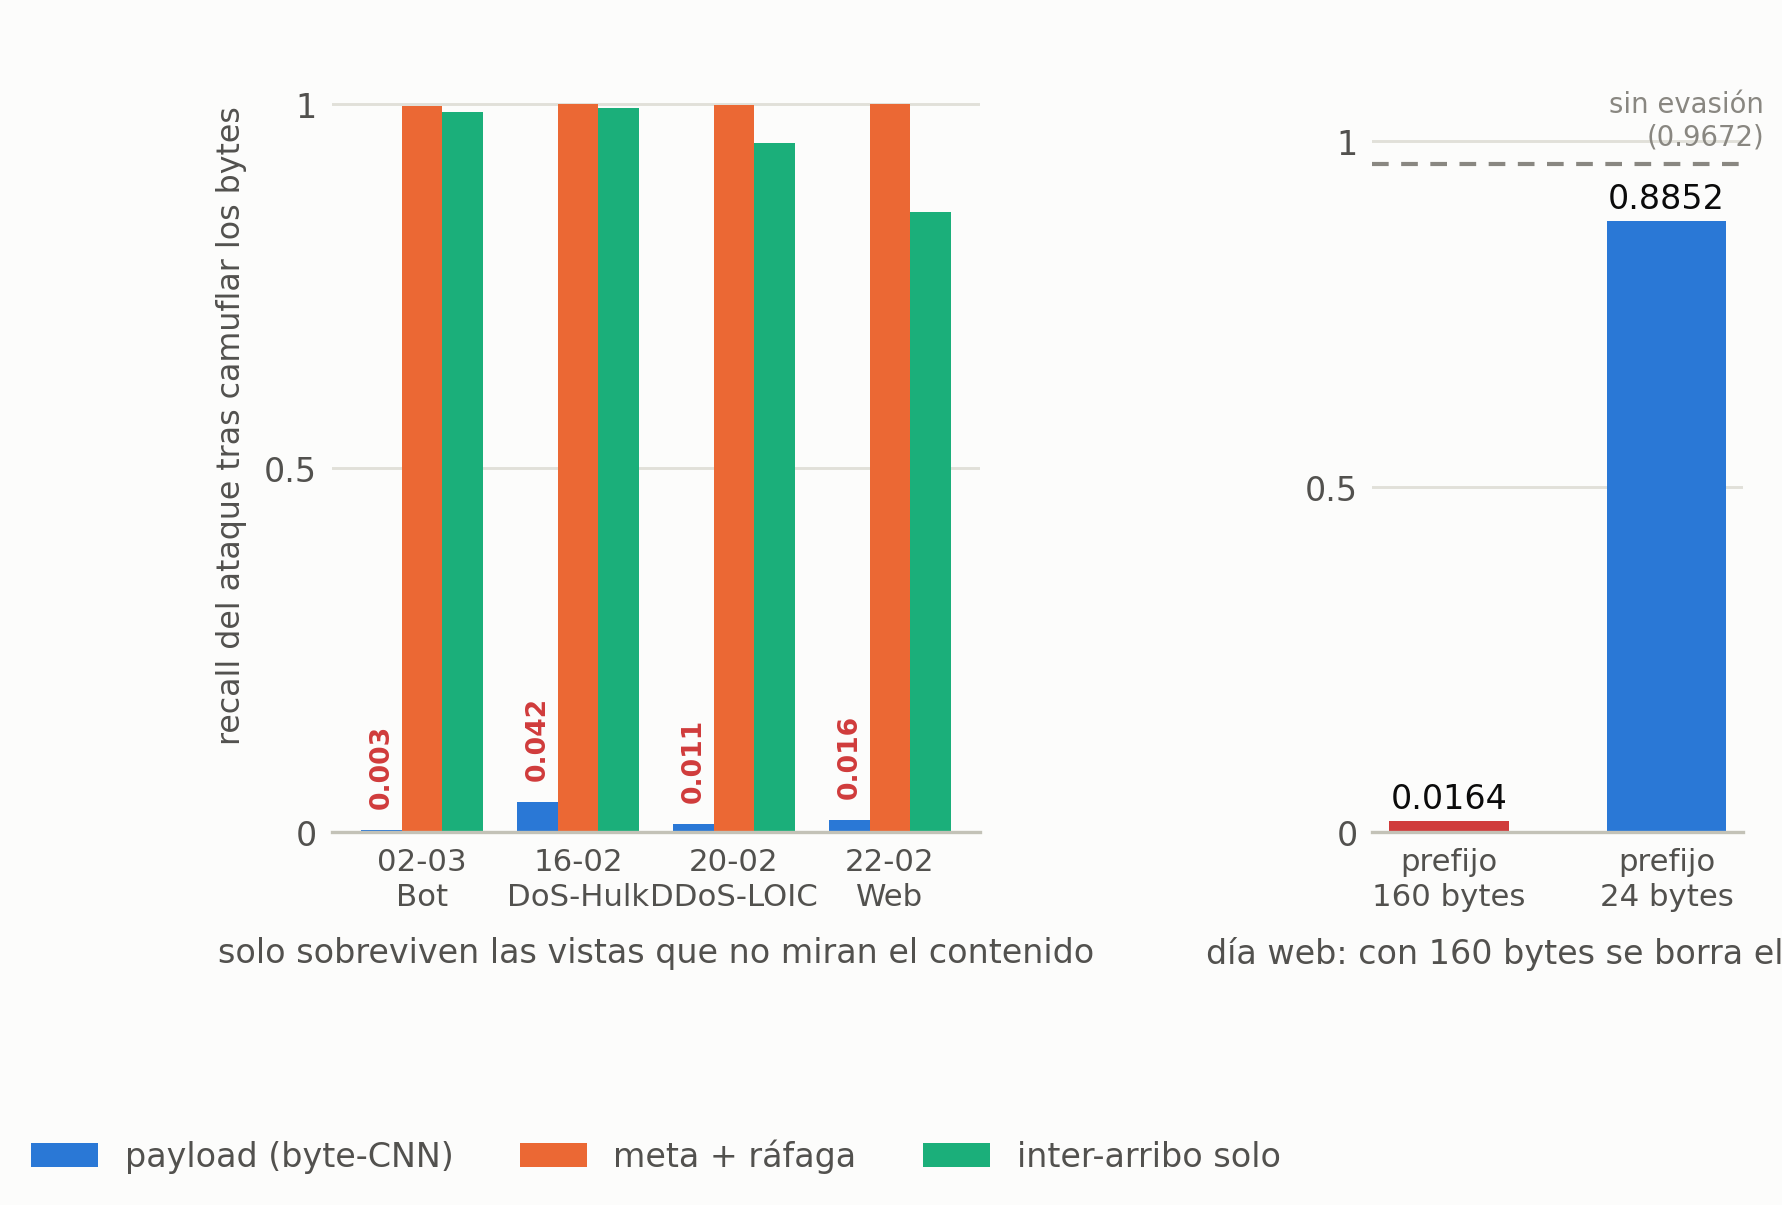
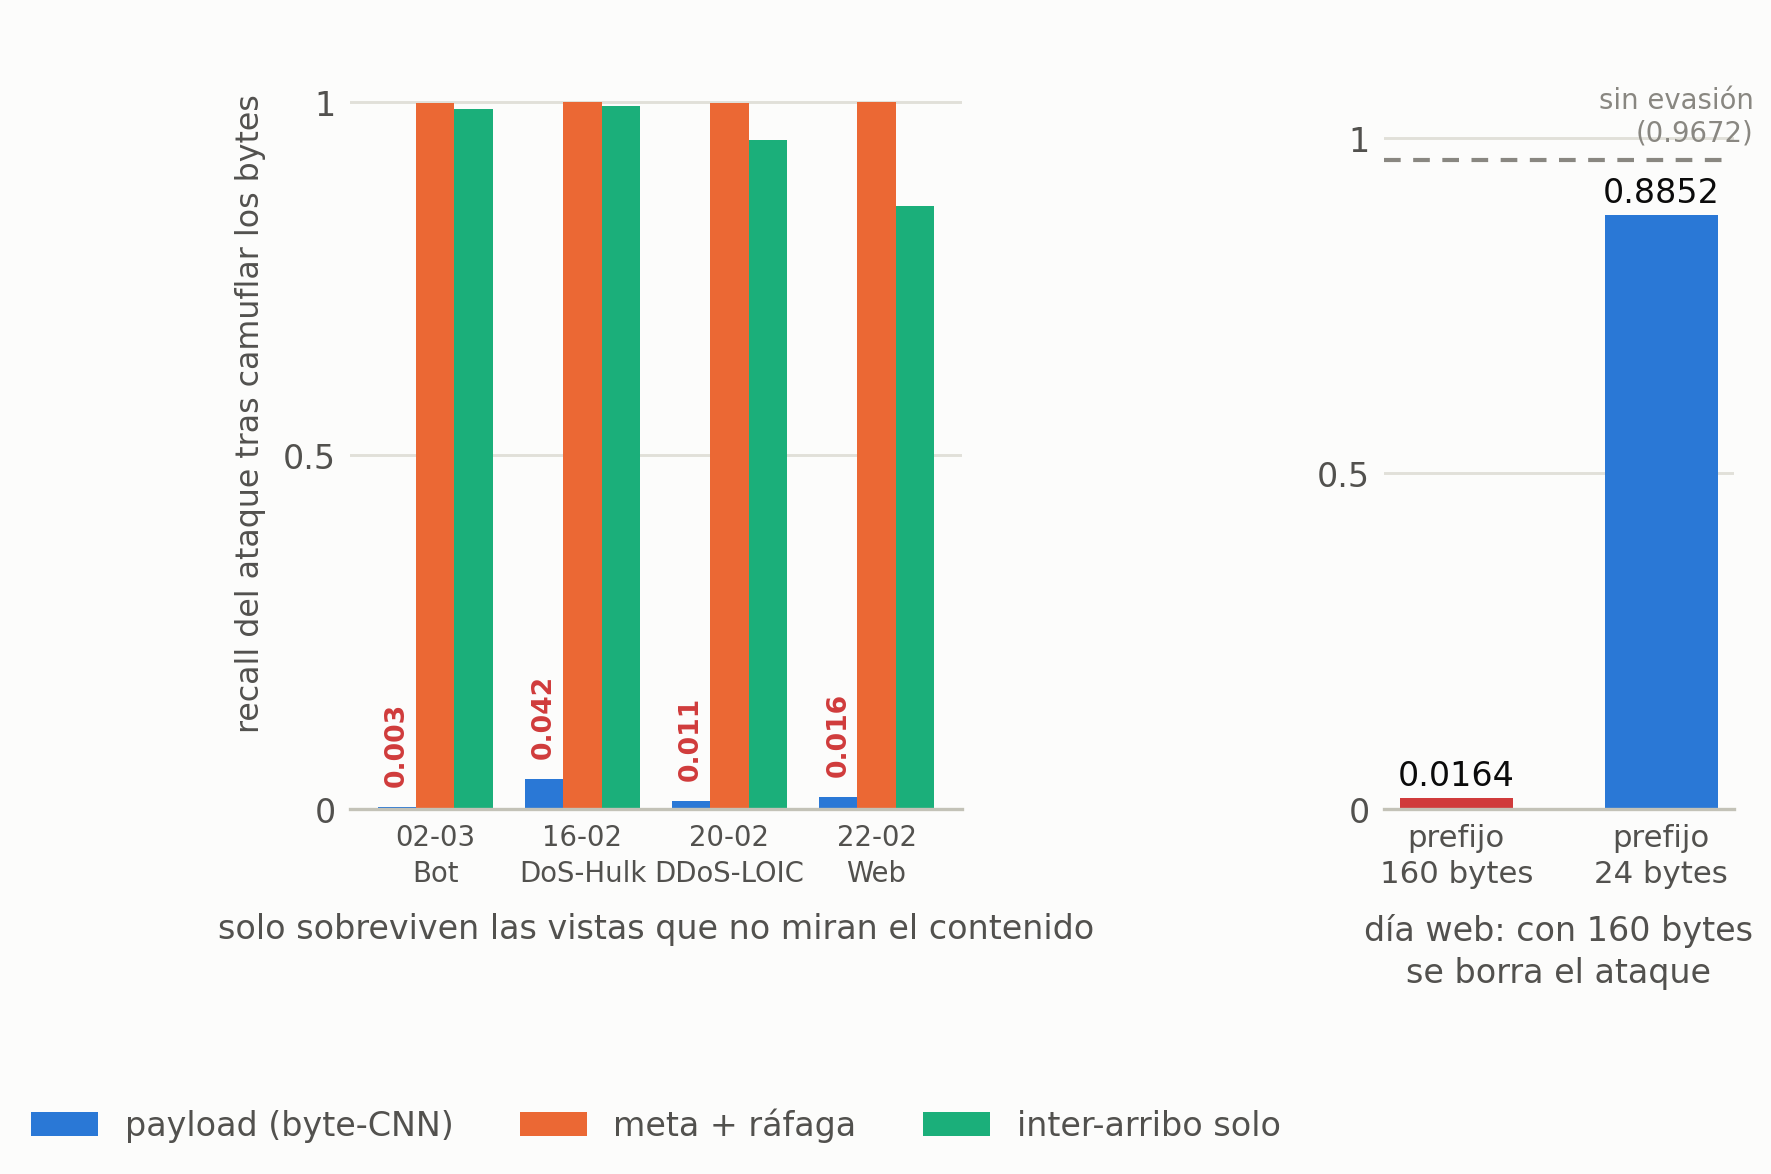
Quinta errata: el rotulo cortado de la figura 5.2
A la figura 5.2 se le sale del recorte la ultima palabra del rotulo del
panel derecho: se imprime "dia web: con 160 bytes se borra el" y falta
"ataque". Es el aviso metodologico del capitulo, asi que la frase que
queda a medias es justo la que dice que sobrescribir 160 bytes en el dia
web no evadia la deteccion sino que destruia el ataque.

Corregida en el codigo -el rotulo va en dos lineas- y documentada en
ERRATAS.md, que pasa de cuatro erratas a cinco. main.pdf sigue siendo la
version entregada al ADDI y no se recompila, de modo que las figuras 3.2
y 5.2 regeneradas ya no coinciden con las impresas. El README lo dice.

diff --git a/scripts/figuras/fig_generalizacion.py b/scripts/figuras/fig_generalizacion.py
@@ -430,8 +430,10 @@ def f39_evasion_interarribo() -> None:
                              fontweight="bold", rotation=90)
     ax1.set_ylim(0, 1.12)
     ax1.set_yticks([0, 0.5, 1.0], ["0", "0.5", "1"], fontsize=8)
-    ax1.set_xticks(x, [d.replace(" ", "\n", 1) for d in dias], fontsize=7.4,
-                   linespacing=1.3)
+    # 6.6 y no 7.4: a 7.4 "DoS-Hulk" y "DDoS-LOIC" se tocan y se leen como una
+    # sola palabra. Son cuatro etiquetas en un panel estrecho.
+    ax1.set_xticks(x, [d.replace(" ", "\n", 1) for d in dias], fontsize=6.6,
+                   linespacing=1.35)
     ax1.set_ylabel("recall del ataque tras camuflar los bytes", fontsize=7.6)
     limpiar_ejes(ax1, rejilla="y")
     # Rotulo de panel ABAJO: arriba choca con el subtitulo de figura (leccion de F35).
@@ -454,8 +456,11 @@ def f39_evasion_interarribo() -> None:
     ax2.set_yticks([0, 0.5, 1.0], ["0", "0.5", "1"], fontsize=8)
     ax2.set_xticks(range(2), etiquetas, fontsize=7.4, linespacing=1.3)
     limpiar_ejes(ax2, rejilla="y")
-    ax2.set_xlabel("día web: con 160 bytes se borra el ataque",
-                   fontsize=8, color=TINTA_2, labelpad=6)
+    # ERRATA (14-sep): en una sola linea este rotulo mide 38 px mas que el panel
+    # -que es el estrecho de los dos- y "ataque" se quedaba fuera del recorte.
+    # En la memoria entregada se lee "...se borra el". Partido en dos, cabe.
+    ax2.set_xlabel("día web: con 160 bytes\nse borra el ataque",
+                   fontsize=8, color=TINTA_2, labelpad=6, linespacing=1.35)
 
     titulo_figura(fig, "La evasión separa la huella de la herramienta del contenido real",
                   "El payload se desploma donde los primeros bytes son la firma de la "

diff --git a/ERRATAS.md b/ERRATAS.md
@@ -3,20 +3,20 @@
 `DIF_Dissertation_2026/main.pdf` es **la versión entregada al ADDI el 8 de
 septiembre de 2026**, sin modificar. Después de la entrega se revisó el texto
 contra el código, afirmación por afirmación —arquitecturas, tamaños de
-experimento, métodos, recuentos y parámetros—, y aparecieron cuatro erratas.
+experimento, métodos, recuentos y parámetros—, y aparecieron cinco erratas.
 Se documentan aquí en lugar de corregirlas en el PDF, porque el PDF entregado es
 el que tiene el tribunal y cambiarlo a posteriori haría que dejasen de coincidir.
 
-**Ninguna de las cuatro afecta a un resultado.** El auditor de coherencia
+**Ninguna de las cinco afecta a un resultado.** El auditor de coherencia
 (`scripts/figuras/verificar_memoria.py`) contrasta las 432 cifras del texto y
-las tablas contra `scripts/figuras/resultados.py` y sale en verde. Lo que falla
-en tres de los cuatro casos es la *descripción* de algo que el código hace de
-otra manera; el cuarto es una figura que se quedó con cifras viejas.
+las tablas contra `scripts/figuras/resultados.py` y sale en verde. Dos están en
+figuras —una con cifras de escala desfasadas, otra con un rótulo cortado— y las
+otras tres fallan al *describir* algo que el código hace de otra manera.
 
-**El código de este repositorio sí está corregido** en el único caso que lo
-requería (la errata 1). Por eso, si se regenera la figura 3.2 con
-`scripts/figuras/fig_datos.py`, sale distinta de la que imprime `main.pdf`. Esa
-divergencia es deliberada y es la que explica este fichero.
+**El código de este repositorio sí está corregido** en los dos casos que lo
+requerían (las erratas 1 y 2). Por eso, si se regeneran las figuras 3.2 y 5.2,
+salen distintas de las que imprime `main.pdf`. Esa divergencia es deliberada y
+es la que explica este fichero.
 
 ---
 
@@ -34,7 +34,7 @@ El cuarto régimen entró el 21 de agosto, al incorporar el día de la botnet
 (`02-03-2018`, Ares). Las cuatro fichas de esa figura estaban escritas a mano y
 no se actualizaron con él.
 
-**Es la más visible de las cuatro** porque se contradice con la propia memoria a
+**Es la más visible de las cinco** porque se contradice con la propia memoria a
 tres páginas de distancia: el resumen, en la página I, dice «17.203.272
 conexiones TCP repartidas en **seis** días del conjunto CSE-CIC-IDS2018».
 
@@ -52,7 +52,32 @@ es una ficha de escala, dice cuánto material se procesó, no qué salió.
 
 ---
 
-## 2. El cuarto escalar de la vista de metadatos no es la duración
+## 2. A la figura 5.2 se le sale del recorte la última palabra de un rótulo
+
+**Dónde:** figura 5.2, «La evasión separa la huella de la herramienta del
+contenido real», capítulo 5. Panel derecho.
+
+El rótulo bajo ese panel se imprime como «día web: con 160 bytes se borra el» y
+ahí se acaba. El texto completo es «**día web: con 160 bytes se borra el
+ataque**»: el rótulo mide 38 px más que el panel —que es el estrecho de los
+dos— y la última palabra queda fuera del recorte.
+
+Ese panel no es decorativo: es el aviso metodológico del capítulo. Dice que, en
+el día web, sobrescribir los primeros 160 bytes no evadía la detección sino que
+*destruía el ataque*, porque la inyección SQL vive en esos bytes; repetida la
+prueba con un prefijo de 24 bytes, que no la toca, el recall aguanta en 0.8852.
+La regla que sale de ahí —un test de evasión solo vale si el ataque sigue siendo
+el ataque después de la modificación— está enunciada entera en el texto de la
+sección, así que no se pierde información: el defecto es de composición.
+
+**Qué se ha corregido.** El rótulo va ahora en dos líneas y entra completo. De
+paso, las etiquetas del eje del panel izquierdo: a 7,4 pt «DoS-Hulk» y
+«DDoS-LOIC» se tocaban y se leían como una sola palabra; bajadas a 6,6 pt, ya
+no. Como en la errata 1, `main.pdf` no se recompila.
+
+---
+
+## 3. El cuarto escalar de la vista de metadatos no es la duración
 
 **Dónde:** §3.2, §3.3 y §4.2.
 
@@ -70,7 +95,7 @@ leerlos— vale igual para «bytes por paquete» que para «duración».
 
 ---
 
-## 3. La atención cruzada no sustituye a la concatenación: la incluye
+## 4. La atención cruzada no sustituye a la concatenación: la incluye
 
 **Dónde:** §5.1, descripción de `CrossAttentionNet`.
 
@@ -90,7 +115,7 @@ que lo añadido no aporta.
 
 ---
 
-## 4. §2.4 remite a una explicación que §6.5 no da
+## 5. §2.4 remite a una explicación que §6.5 no da
 
 **Dónde:** §2.4, cierre del apartado de conjuntos de datos.
 

diff --git a/README.md b/README.md
@@ -30,14 +30,15 @@ o cambiar de conjunto de datos.
 | `models/*.md` | Los 62 informes de resultados que producen los experimentos. |
 | `DIF_Dissertation_2026/` | La memoria en LaTeX. `main.pdf` es la versión entregada al ADDI el 8 de septiembre de 2026, sin modificar. |
 | `figuras/` | Figuras generadas, en dos variantes: anotada y para la memoria. |
-| `ERRATAS.md` | Las cuatro erratas encontradas al revisar el texto contra el código **después** de la entrega. |
+| `ERRATAS.md` | Las cinco erratas encontradas al revisar el texto contra el código **después** de la entrega. |
 
 > **Sobre `ERRATAS.md`.** La memoria entregada no se toca, así que las erratas se
-> documentan en lugar de corregirse en el PDF. El código sí está corregido en el
-> único caso que lo requería —la figura 3.2, que se había quedado con cifras de
-> una versión anterior del trabajo—, de modo que regenerarla ahora produce una
-> figura distinta de la que imprime `main.pdf`. Esa divergencia es deliberada y
-> está explicada allí.
+> documentan en lugar de corregirse en el PDF. El código sí está corregido en los
+> dos casos que lo requerían —la figura 3.2, que se había quedado con cifras de
+> una versión anterior del trabajo, y la 5.2, a la que se le salía del recorte la
+> última palabra de un rótulo—, de modo que regenerarlas ahora produce figuras
+> distintas de las que imprime `main.pdf`. Esa divergencia es deliberada y está
+> explicada allí.
 
 ## Reproducir los resultados
 
